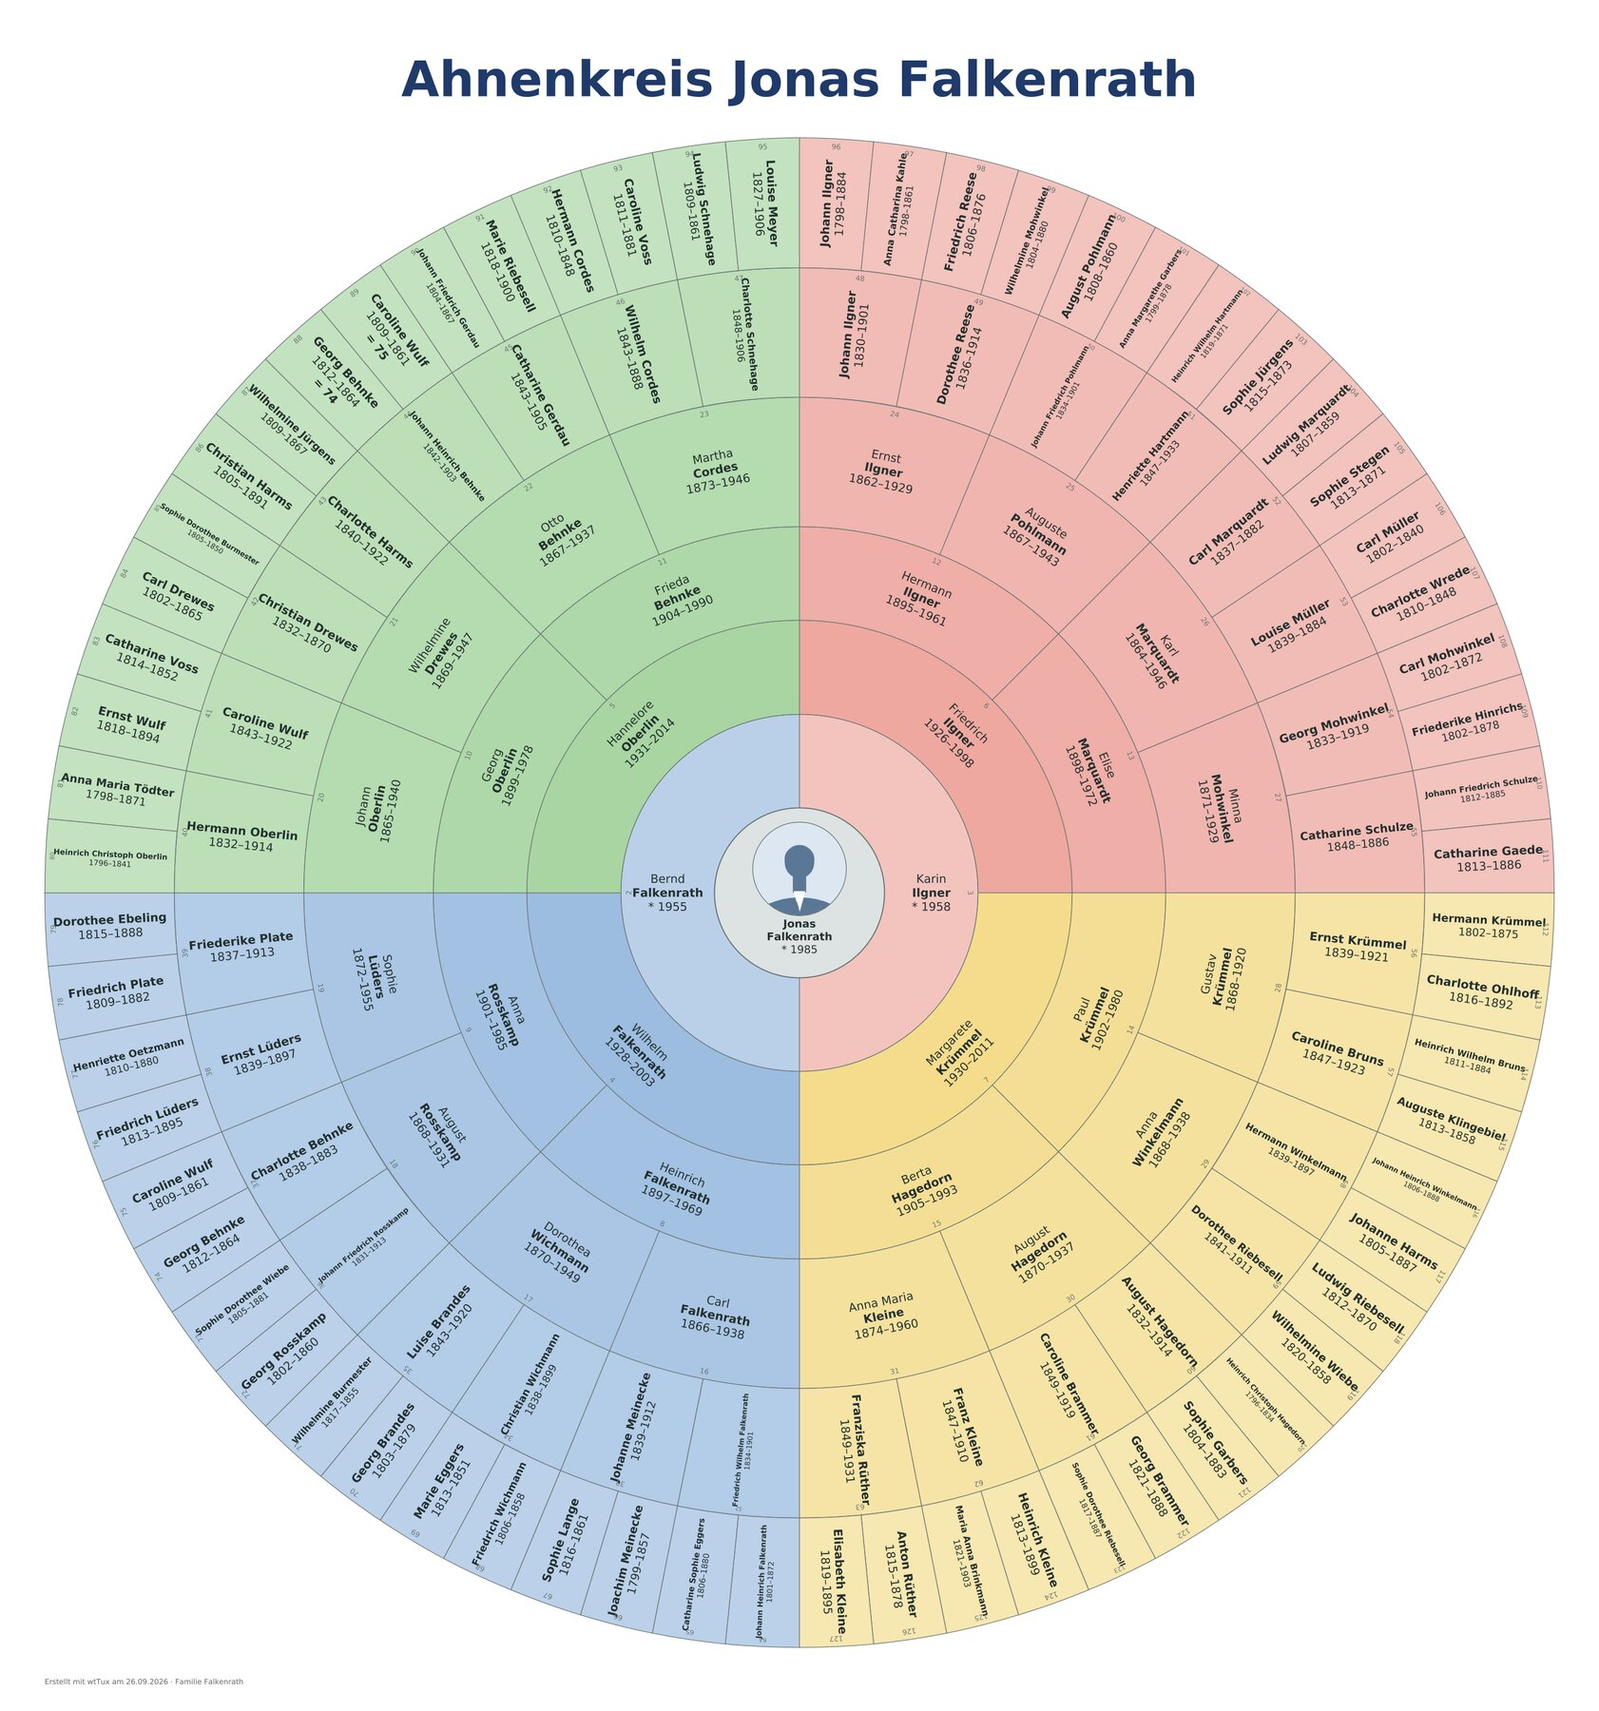
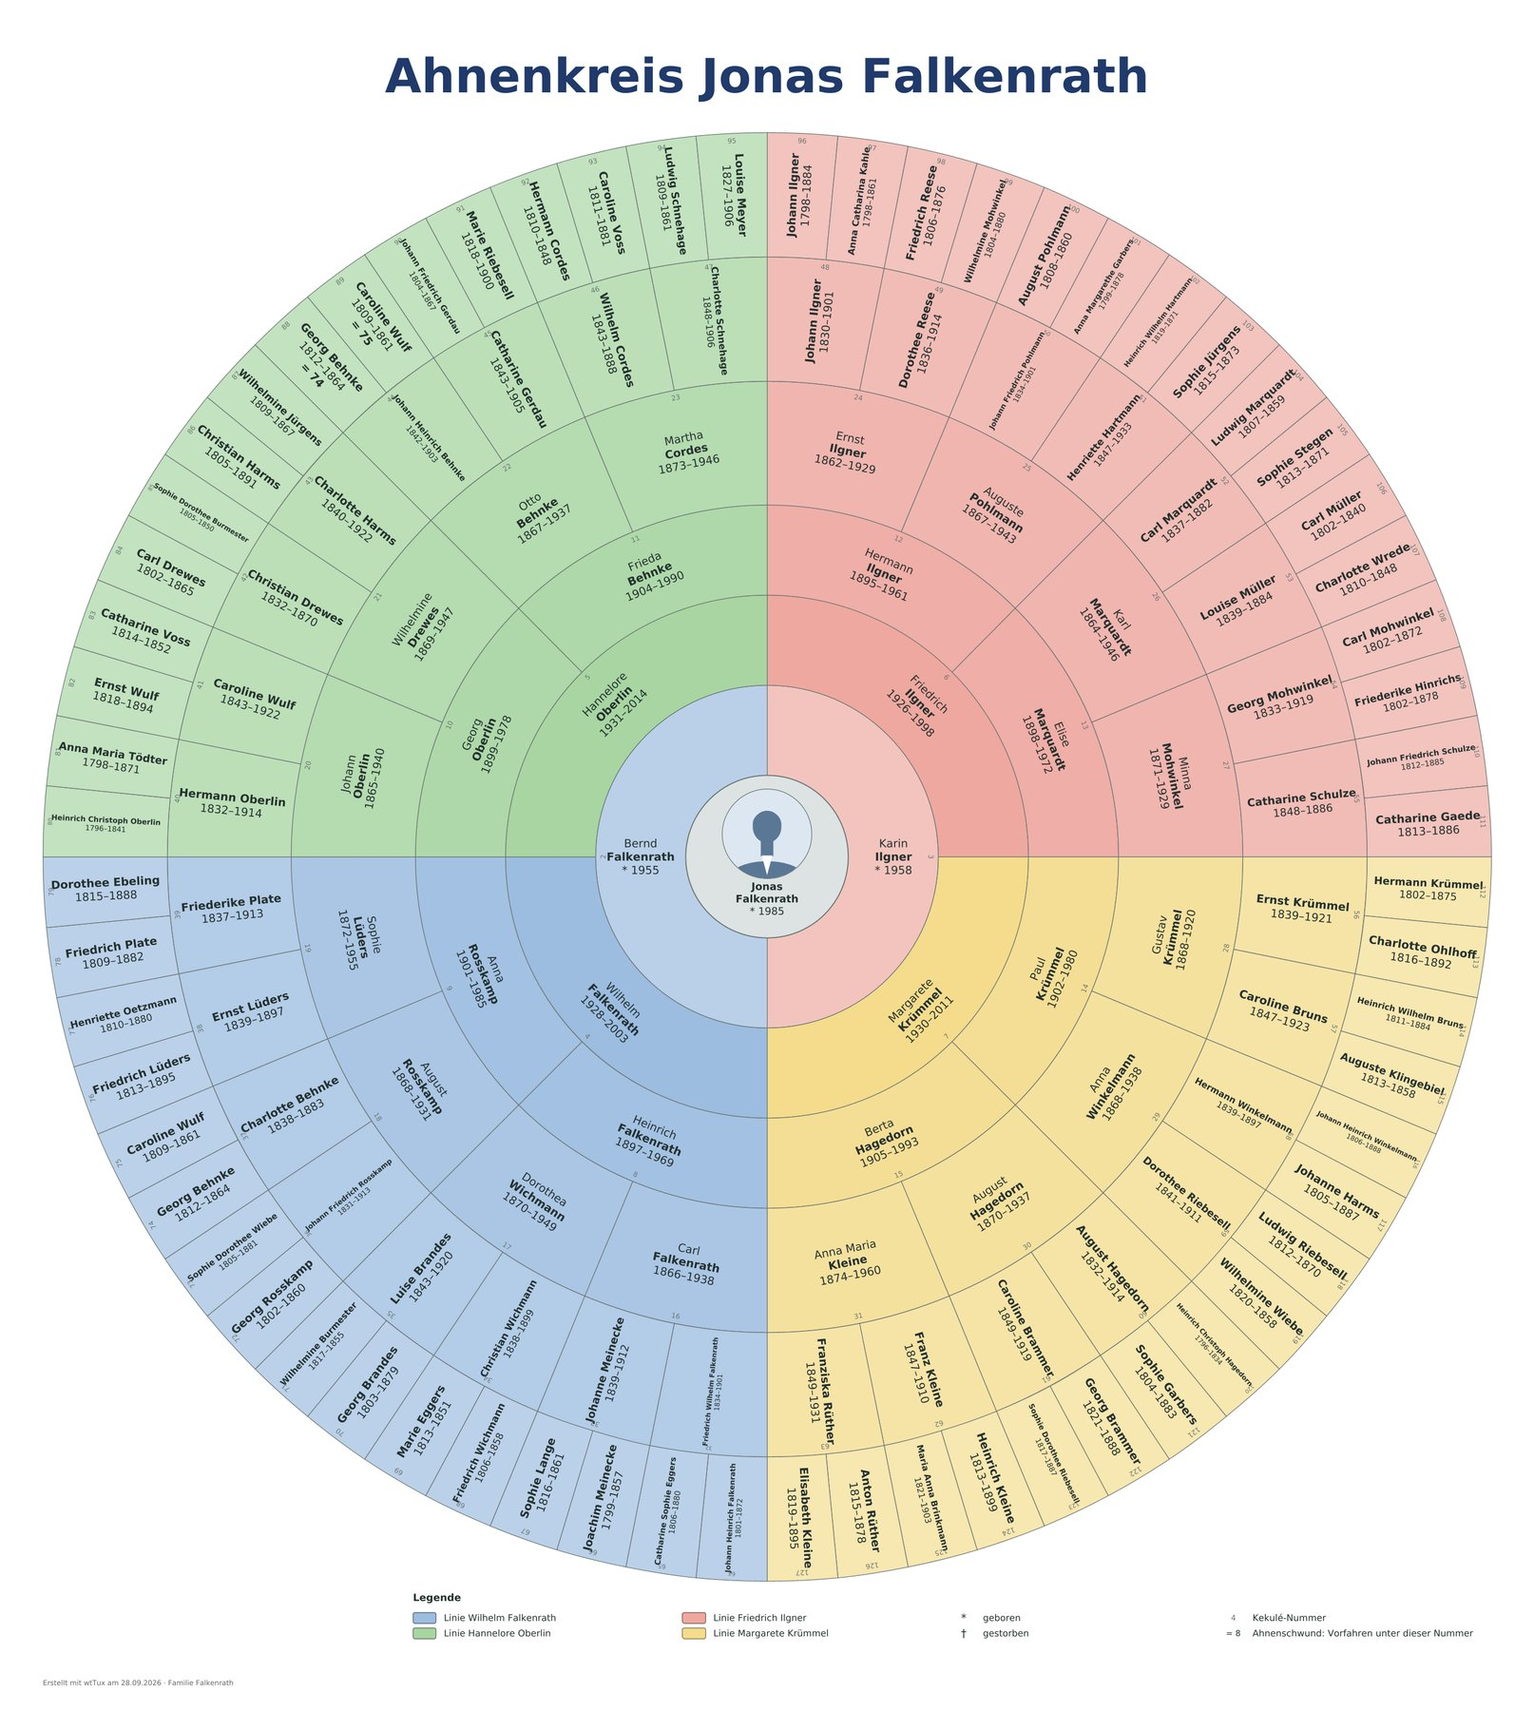
Galerie aller 15 Tafelarten mit Beispielbildern (docs/TAFELN.md, englisch TAFELN.en.md); README kuerzer mit sechs Beispielen und Verweis; Beispielbilder erneuert

diff --git a/README.md b/README.md
@@ -24,20 +24,18 @@
 
 <p align="center">
   <img src="docs/screenshots/desktop-tafel-fenster.jpg" alt="wtTux: Fenster Tafel erstellen mit Ahnenkreis über sieben Generationen" width="100%">
-  <br><b>Tafel erstellen</b> – Tafelart, Generationen, Gestaltung (Pergament, Klassisch, Farbig, Schwarzweiß), Bilder und Kekule-Nummern; die Vorschau ist das fertige Blatt, zum Drucken oder als PDF. Ab 1.24 mit Farbregeln und Legende, Großdruck auf A4-Blättern mit Montageplan oder als PDF für den Plotter und Karteikarten je Person; ab 1.25 mit Kastenformen, Schmuckrahmen und Hintergründen, wählbarem Kasteninhalt, Filtern, Vorlagen und Zoom in der Vorschau.
+  <br><b>Tafel erstellen</b> – Tafelart wählen, gestalten (Stil, Kastenform, Hintergrund, Rahmen, Farben, Legende), Inhalt einstellen; die Vorschau ist das fertige Blatt, zum Drucken, als PDF, auf A4-Blätter zum Kleben, für den Plotter oder als Bild.
 </p>
 
-| <img src="docs/screenshots/tafel-stammtafel.jpg" alt="Stammtafel der Nachfahren von Johann Heinrich Falkenrath über vier Generationen" width="100%"> | <img src="docs/screenshots/tafel-ahnentafel.jpg" alt="Ahnentafel von Jonas Falkenrath über fünf Generationen mit Kekule-Nummern" width="100%"> |
+| <img src="docs/screenshots/tafel-ahnentafel.jpg" alt="Ahnentafel von Jonas Falkenrath, farbig nach Großeltern-Linien mit Legende" width="100%"> | <img src="docs/screenshots/tafel-stammtafel.jpg" alt="Stammtafel der Nachfahren von Johann Heinrich Falkenrath mit ovalen Kästen" width="100%"> |
 | :-: | :-: |
-| **Stammtafel** – alle Nachfahren auf einem Blatt | **Ahnentafel** – Proband unten, Kekule-Nummern |
-| <img src="docs/screenshots/tafel-ahnenkreis.jpg" alt="Ahnenkreis von Jonas Falkenrath über sieben Generationen, farbig nach Großeltern-Linien" width="100%"> | <img src="docs/screenshots/tafel-faechertafel.jpg" alt="Fächertafel von Jonas Falkenrath über sechs Generationen" width="100%"> |
-| **Ahnenkreis** – sieben Generationen, die vier Großeltern-Linien in Farbe, Ahnenschwund als „= 74“ | **Fächertafel** – der Halbkreis, hier sechs Generationen |
-| <img src="docs/screenshots/tafel-cousins.jpg" alt="Nachfahren der Großeltern von Jonas Falkenrath, farbig nach Zweigen, mit Legende" width="100%"> | <img src="docs/screenshots/tafel-paar.jpg" alt="Sanduhr des Paares Bernd Falkenrath und Karin Ilgner mit den Vorfahren beider und den gemeinsamen Nachfahren" width="100%"> |
-| **Nachfahren der Großeltern** – Onkel, Tanten, Cousins; die Eltern innen nebeneinander | **Sanduhr eines Paares** – die Vorfahren beider, darunter die gemeinsamen Nachfahren |
-| <img src="docs/screenshots/tafel-verwandt.jpg" alt="Verwandtschaftstafel von Jonas Falkenrath: die Nachfahren der vier Urgroßelternpaare nebeneinander" width="100%"> | <img src="docs/screenshots/tafel-montageplan.jpg" alt="Montageplan einer Ahnentafel auf sechs A4-Blättern" width="100%"> |
-| **Verwandtschaftstafel** – alle Blutsverwandten ab den Urgroßeltern, Doppelte als Gitterverweis | **Großdruck** – Montageplan für die Blätter zum Kleben |
-| <img src="docs/screenshots/tafel-zeitleiste.jpg" alt="Zeitleiste der Vorfahren von Jonas Falkenrath mit Lebensbalken, Großeltern-Linien in Farbe und Zeitereignissen" width="100%"> | <img src="docs/screenshots/tafel-verwandtschaftsweg.jpg" alt="Verwandtschaftsweg zwischen Jonas Falkenrath und Florian Ahlers: Cousins 1. Grades über Friedrich Ilgner" width="100%"> |
-| **Zeitleiste** – wer lebte wann, mit Zeitereignissen (ab 1.25) | **Verwandtschaftsweg** – wie zwei Personen verwandt sind (ab 1.25) |
+| **Ahnentafel** – Vorfahren, Kekulé-Nummern, Farben nach Linie | **Stammtafel** – alle Nachfahren auf einem Blatt |
+| <img src="docs/screenshots/tafel-ahnenkreis.jpg" alt="Ahnenkreis von Jonas Falkenrath über sieben Generationen" width="100%"> | <img src="docs/screenshots/tafel-zeitleiste.jpg" alt="Zeitleiste der Vorfahren von Jonas Falkenrath mit Zeitereignissen" width="100%"> |
+| **Ahnenkreis** – sieben Generationen im Kreis | **Zeitleiste** – wer lebte wann |
+| <img src="docs/screenshots/tafel-verwandtschaftsweg.jpg" alt="Verwandtschaftsweg zwischen Jonas Falkenrath und Florian Ahlers" width="100%"> | <img src="docs/screenshots/tafel-montageplan.jpg" alt="Montageplan einer Ahnentafel auf sechs A4-Blättern" width="100%"> |
+| **Verwandtschaftsweg** – wie zwei Personen verwandt sind | **Großdruck** – Blätter zum Kleben oder Plotter |
+
+**[Alle 15 Tafelarten mit Beispielen →](docs/TAFELN.md)** Ahnentafel (auch seitenweise), Fächertafel, Ahnenkreis, Zeitleiste, Stammlinie, Mutterstamm, ältester Vorfahr, Stammtafel (auch seitenweise), Nachfahren der Großeltern, Sanduhr, Sanduhr eines Paares, Verwandtschaftstafel, Verwandtschaftsweg.
 
 <p align="center">
   <img src="docs/screenshots/desktop-pruefung.jpg" alt="wtTux: Fenster Plausibilitätsprüfung mit Voreinstellung und Treffern im Demo-Stammbaum" width="100%">

diff --git a/README.en.md b/README.en.md
@@ -24,20 +24,18 @@
 
 <p align="center">
   <img src="docs/screenshots/desktop-tafel-fenster.jpg" alt="wtTux: chart window with ancestor circle over seven generations" width="100%">
-  <br><b>Charts</b> – chart type, generations, style (parchment, classic, colour, black and white), pictures and Kekule numbers; the preview is the finished sheet, ready to print or save as PDF. From 1.24 with colour rules and a legend, large prints on A4 sheets with an assembly plan or as a PDF for the plotter, and a card for every person; from 1.25 with box shapes, decorative frames and backgrounds, selectable box content, filters, templates and zoom in the preview.
+  <br><b>Charts</b> – choose a chart type, style it (style, box shape, background, frame, colours, legend), set its content; the preview is the finished sheet, to print, as PDF, on A4 sheets to glue, for the plotter or as a picture.
 </p>
 
-| <img src="docs/screenshots/tafel-stammtafel.jpg" alt="Descendant chart of Johann Heinrich Falkenrath over four generations" width="100%"> | <img src="docs/screenshots/tafel-ahnentafel.jpg" alt="Ancestor chart of Jonas Falkenrath over five generations with Kekule numbers" width="100%"> |
+| <img src="docs/screenshots/tafel-ahnentafel.jpg" alt="Ancestor chart of Jonas Falkenrath coloured by grandparent lines with legend" width="100%"> | <img src="docs/screenshots/tafel-stammtafel.jpg" alt="Descendant chart of Johann Heinrich Falkenrath with oval boxes" width="100%"> |
 | :-: | :-: |
-| **Descendant chart** – all descendants on one sheet | **Ancestor chart** – root person at the bottom, Kekule numbers |
-| <img src="docs/screenshots/tafel-ahnenkreis.jpg" alt="Ancestor circle of Jonas Falkenrath over seven generations, coloured by grandparent lines" width="100%"> | <img src="docs/screenshots/tafel-faechertafel.jpg" alt="Fan chart of Jonas Falkenrath over six generations" width="100%"> |
-| **Ancestor circle** – seven generations, the four grandparent lines in colour, pedigree collapse as “= 74” | **Fan chart** – the half circle, here six generations |
-| <img src="docs/screenshots/tafel-cousins.jpg" alt="Descendants of the grandparents of Jonas Falkenrath, coloured by branch, with legend" width="100%"> | <img src="docs/screenshots/tafel-paar.jpg" alt="Hourglass of the couple Bernd Falkenrath and Karin Ilgner with the ancestors of both and their common descendants" width="100%"> |
-| **Descendants of the grandparents** – uncles, aunts, cousins; the parents side by side in the middle | **Couple hourglass** – the ancestors of both, their common descendants below |
-| <img src="docs/screenshots/tafel-verwandt.jpg" alt="Relationship chart of Jonas Falkenrath: the descendants of the four great-grandparent couples side by side" width="100%"> | <img src="docs/screenshots/tafel-montageplan.jpg" alt="Assembly plan of an ancestor chart on six A4 sheets" width="100%"> |
-| **Relationship chart** – all blood relatives from the great-grandparents, duplicates as grid references | **Large print** – assembly plan for the sheets to glue together |
-| <img src="docs/screenshots/tafel-zeitleiste.jpg" alt="Timeline of the ancestors of Jonas Falkenrath with life bars, grandparent lines in colour and historical events" width="100%"> | <img src="docs/screenshots/tafel-verwandtschaftsweg.jpg" alt="Relationship path between Jonas Falkenrath and Florian Ahlers: first cousins via Friedrich Ilgner" width="100%"> |
-| **Timeline** – who lived when, with historical events (from 1.25) | **Relationship path** – how two people are related (from 1.25) |
+| **Ancestor chart** – ancestors, Kekulé numbers, colours by line | **Descendant chart** – all descendants on one sheet |
+| <img src="docs/screenshots/tafel-ahnenkreis.jpg" alt="Ancestor circle of Jonas Falkenrath over seven generations" width="100%"> | <img src="docs/screenshots/tafel-zeitleiste.jpg" alt="Timeline of the ancestors of Jonas Falkenrath with historical events" width="100%"> |
+| **Ancestor circle** – seven generations in a circle | **Timeline** – who lived when |
+| <img src="docs/screenshots/tafel-verwandtschaftsweg.jpg" alt="Relationship path between Jonas Falkenrath and Florian Ahlers" width="100%"> | <img src="docs/screenshots/tafel-montageplan.jpg" alt="Assembly plan of an ancestor chart on six A4 sheets" width="100%"> |
+| **Relationship path** – how two people are related | **Large print** – sheets to glue or plotter |
+
+**[All 15 chart types with examples →](docs/TAFELN.en.md)** Ancestor chart (also on pages), fan chart, ancestor circle, timeline, paternal line, maternal line, oldest ancestor, descendant chart (also on pages), descendants of the grandparents, hourglass, couple hourglass, relationship chart, relationship path.
 
 <p align="center">
   <img src="docs/screenshots/desktop-pruefung.jpg" alt="wtTux: plausibility check window with preset and findings in the demo tree" width="100%">

diff --git a/docs/TAFELN.md b/docs/TAFELN.md
@@ -1,0 +1,39 @@
+# Tafeln in wtWin, wtTux und wtMac
+
+Alle Tafelarten aus **Erstellen › Stammtafel …** (Strg+T), jeweils mit einem Beispiel aus dem frei erfundenen Demo-Stammbaum [Familie Falkenrath](../demo-tree/) (CC0; Fotos unbekannter Personen aus dem Rijksmuseum Amsterdam, CC0). Jede Tafel lässt sich gestalten (Stil, Kastenform, Hintergrund, Rahmen, Farben nach Linie, Zweig oder eigenen Regeln, Legende), im Inhalt einstellen (Datum, Orte, Alter, Beruf, Rufname, Nummern, Filter) und drucken: auf ein Blatt, als Poster-PDF, auf A4-Blätter zum Kleben, als PDF für den Plotter oder als Bild (PNG).
+
+## Vorfahren
+
+| <img src="screenshots/tafel-ahnentafel.jpg" alt="Ahnentafel" width="100%"> | <img src="screenshots/tafel-ahnen-seiten.jpg" alt="Ahnentafel seitenweise" width="100%"> |
+| :-: | :-: |
+| **Ahnentafel** – Proband unten, Vorfahren darüber, Kekulé-Nummern; hier farbig nach den vier Großeltern-Linien mit Legende | **Ahnentafel seitenweise** – vier Generationen je A4-Seite, oben „→ S. 5“ zur Fortsetzung – zum Abheften |
+| <img src="screenshots/tafel-faechertafel.jpg" alt="Fächertafel" width="100%"> | <img src="screenshots/tafel-ahnenkreis.jpg" alt="Ahnenkreis" width="100%"> |
+| **Fächertafel** – der Halbkreis, hier sechs Generationen mit Rahmen und Legende | **Ahnenkreis** – der volle Kreis, sieben Generationen, Großeltern-Linien in Farbe |
+| <img src="screenshots/tafel-zeitleiste.jpg" alt="Zeitleiste" width="100%"> | <img src="screenshots/tafel-stammlinie.jpg" alt="Stammlinie" width="100%"> |
+| **Zeitleiste** – Lebensbalken über einer Jahresachse – wer lebte wann; mit Zeitereignissen | **Stammlinie** – die Linie der Väter, mit beiden Eltern je Generation |
+| <img src="screenshots/tafel-mutterstamm.jpg" alt="Mutterstamm" width="100%"> | <img src="screenshots/tafel-aeltester.jpg" alt="Ältester Vorfahr" width="100%"> |
+| **Mutterstamm** – die Linie der Mütter | **Ältester Vorfahr** – die Linie zum ältesten bekannten Vorfahren |
+
+## Nachfahren
+
+| <img src="screenshots/tafel-stammtafel.jpg" alt="Stammtafel" width="100%"> | <img src="screenshots/tafel-stamm-seiten.jpg" alt="Stammtafel seitenweise" width="100%"> |
+| :-: | :-: |
+| **Stammtafel** – alle Nachfahren auf einem Blatt; hier mit ovalen Kästen, runden Fotos und Schatten | **Stammtafel seitenweise** – wenige Generationen je Seite, „→ S. 7“ zur Fortsetzung, vorn eine Seitenübersicht, hinten das Personenverzeichnis |
+| <img src="screenshots/tafel-cousins.jpg" alt="Nachfahren der Großeltern" width="100%"> |  |
+| **Nachfahren der Großeltern** – Onkel, Tanten, Cousins beider Seiten; die Eltern innen nebeneinander |  |
+
+## Vor- und Nachfahren
+
+| <img src="screenshots/tafel-sanduhr.jpg" alt="Sanduhr" width="100%"> | <img src="screenshots/tafel-paar.jpg" alt="Sanduhr eines Paares" width="100%"> |
+| :-: | :-: |
+| **Sanduhr** – Vorfahren und Nachfahren einer Person, hier waagerecht | **Sanduhr eines Paares** – die Vorfahren beider Partner, darunter die gemeinsamen Nachfahren |
+| <img src="screenshots/tafel-verwandt.jpg" alt="Verwandtschaftstafel" width="100%"> | <img src="screenshots/tafel-verwandtschaftsweg.jpg" alt="Verwandtschaftsweg" width="100%"> |
+| **Verwandtschaftstafel** – die Nachfahren aller Stammpaare einer Ahnen-Generation – alle Blutsverwandten; Doppelte als Gitterverweis | **Verwandtschaftsweg** – wie zwei Personen verwandt sind: gemeinsamer Vorfahr, beide Linien, die Verwandtschaft in Worten |
+
+## Ausgabe
+
+| <img src="screenshots/tafel-montageplan.jpg" alt="Großdruck" width="100%"> | <img src="screenshots/tafel-karteikarte.jpg" alt="Karteikarte" width="100%"> |
+| :-: | :-: |
+| **Großdruck** – auf A4-Blätter zum Kleben mit Montageplan – oder als PDF für den Plotter auf Rollenbreite | **Karteikarte** – auf Wunsch je Person eine Seite hinter der Tafel; ein Klick auf den Kasten im PDF springt dorthin |
+
+[Zurück zum README](../README.md) · [English](TAFELN.en.md)

diff --git a/docs/TAFELN.en.md b/docs/TAFELN.en.md
@@ -1,0 +1,39 @@
+# Charts in wtWin, wtTux and wtMac
+
+All chart types from **Create › Descendant chart …** (Ctrl+T), each with an example from the fictitious demo tree [Familie Falkenrath](../demo-tree/) (CC0; photos of unknown people from the Rijksmuseum Amsterdam, CC0). Every chart can be styled (style, box shape, background, frame, colours by line, branch or your own rules, legend), its content set (dates, places, age, occupation, call name, numbering, filters) and printed: on one sheet, as a poster PDF, on A4 sheets to glue together, as a PDF for the plotter or as a picture (PNG).
+
+## Ancestors
+
+| <img src="screenshots/tafel-ahnentafel.jpg" alt="Ancestor chart" width="100%"> | <img src="screenshots/tafel-ahnen-seiten.jpg" alt="Ancestor chart on pages" width="100%"> |
+| :-: | :-: |
+| **Ancestor chart** – starting person at the bottom, ancestors above, Kekulé numbers; here coloured by the four grandparent lines with legend | **Ancestor chart on pages** – four generations per A4 page, “→ p. 5” to continue – for a binder |
+| <img src="screenshots/tafel-faechertafel.jpg" alt="Fan chart" width="100%"> | <img src="screenshots/tafel-ahnenkreis.jpg" alt="Ancestor circle" width="100%"> |
+| **Fan chart** – the half circle, here six generations with frame and legend | **Ancestor circle** – the full circle, seven generations, grandparent lines in colour |
+| <img src="screenshots/tafel-zeitleiste.jpg" alt="Timeline" width="100%"> | <img src="screenshots/tafel-stammlinie.jpg" alt="Paternal line" width="100%"> |
+| **Timeline** – life bars on a time axis – who lived when; with historical events | **Paternal line** – the line of fathers, with both parents per generation |
+| <img src="screenshots/tafel-mutterstamm.jpg" alt="Maternal line" width="100%"> | <img src="screenshots/tafel-aeltester.jpg" alt="Oldest ancestor" width="100%"> |
+| **Maternal line** – the line of mothers | **Oldest ancestor** – the line to the oldest known ancestor |
+
+## Descendants
+
+| <img src="screenshots/tafel-stammtafel.jpg" alt="Descendant chart" width="100%"> | <img src="screenshots/tafel-stamm-seiten.jpg" alt="Descendant chart on pages" width="100%"> |
+| :-: | :-: |
+| **Descendant chart** – all descendants on one sheet; here with oval boxes, round photos and shadow | **Descendant chart on pages** – a few generations per page, “→ p. 7” to continue, page overview in front, index at the back |
+| <img src="screenshots/tafel-cousins.jpg" alt="Descendants of the grandparents" width="100%"> |  |
+| **Descendants of the grandparents** – uncles, aunts, cousins of both sides; the parents side by side in the middle |  |
+
+## Ancestors and descendants
+
+| <img src="screenshots/tafel-sanduhr.jpg" alt="Hourglass" width="100%"> | <img src="screenshots/tafel-paar.jpg" alt="Couple hourglass" width="100%"> |
+| :-: | :-: |
+| **Hourglass** – ancestors and descendants of one person, here horizontal | **Couple hourglass** – the ancestors of both partners, their common descendants below |
+| <img src="screenshots/tafel-verwandt.jpg" alt="Relationship chart" width="100%"> | <img src="screenshots/tafel-verwandtschaftsweg.jpg" alt="Relationship path" width="100%"> |
+| **Relationship chart** – the descendants of all root couples of one ancestor generation – all blood relatives; duplicates as grid references | **Relationship path** – how two people are related: common ancestor, both lines, the relationship in words |
+
+## Output
+
+| <img src="screenshots/tafel-montageplan.jpg" alt="Large print" width="100%"> | <img src="screenshots/tafel-karteikarte.jpg" alt="Person card" width="100%"> |
+| :-: | :-: |
+| **Large print** – on A4 sheets to glue together with an assembly plan – or as a PDF for the plotter on roll width | **Person card** – optionally one page per person behind the chart; a click on the box in the PDF jumps there |
+
+[Back to the README](../README.en.md) · [Deutsch](TAFELN.md)
